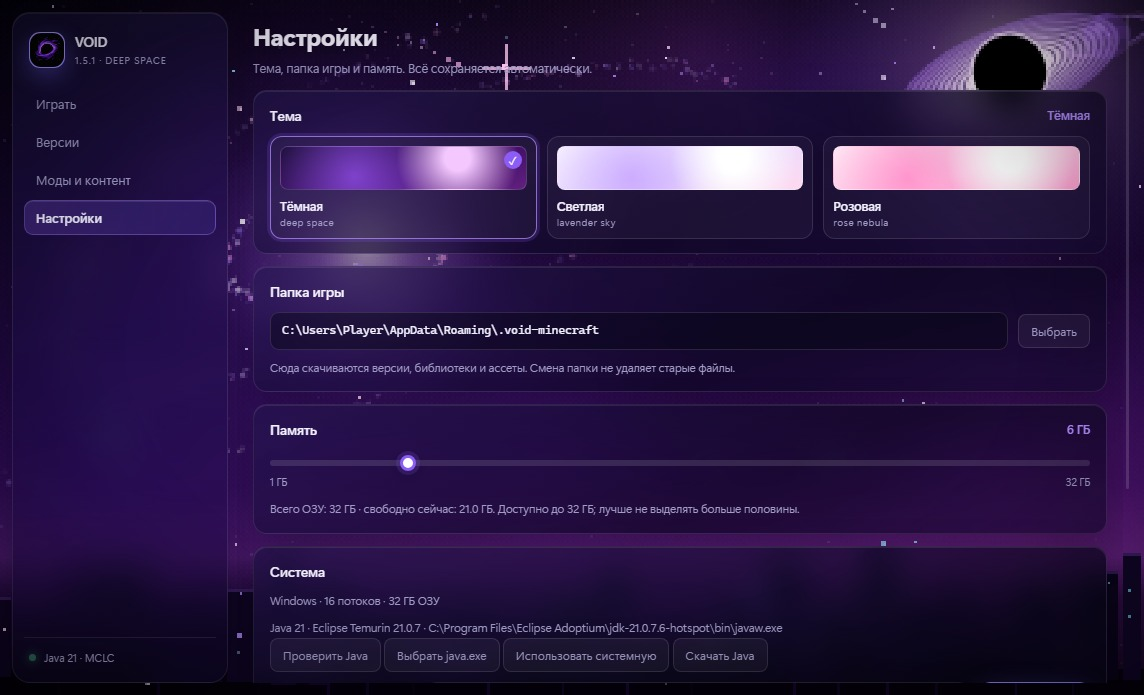
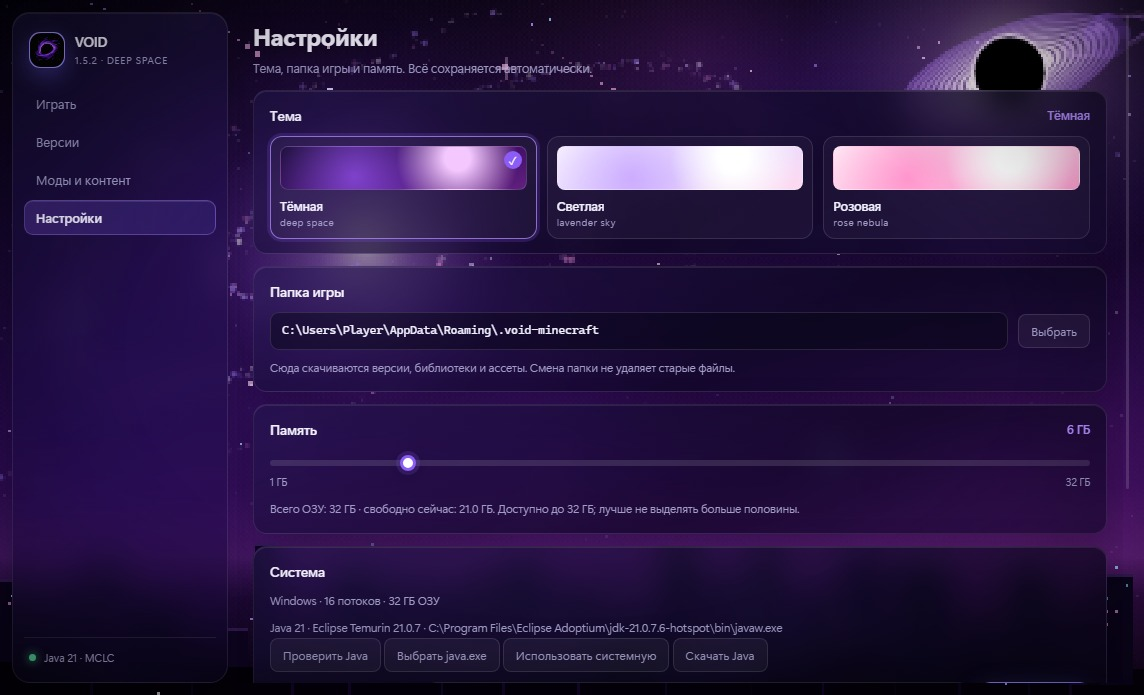
fix: одно окно при запуске и single instance lock

diff --git a/site/index.html b/site/index.html
@@ -82,7 +82,7 @@
       </section>
 
       <section class="download section" id="download">
-        <div class="download-panel"><div class="download-glow"></div><div class="eyebrow">ТВОЯ СЛЕДУЮЩАЯ ИГРА НАЧИНАЕТСЯ ЗДЕСЬ</div><h2>Готов нырнуть<br /><em>в VOID?</em></h2><p>Выбирай установщик или portable-версию. Для запуска Minecraft понадобится Java; её можно установить через настройки лаунчера.</p><div class="download-actions"><a class="button primary" id="setupLink" href="./downloads/VOID-Setup-1.5.1.exe" download>Установщик <span>↓</span></a><a class="button secondary" id="portableLink" href="./downloads/VOID-Portable-1.5.1.exe" download>Portable EXE <span>↓</span></a></div><div class="download-meta"><span>VERSION <b class="js-version">1.5.1</b></span><span>WINDOWS 10/11 · X64</span><span>БЕЗ ЦИФРОВОЙ ПОДПИСИ</span><a id="allReleases" href="https://github.com/Dosh1rac/my-mc-launcher/releases" target="_blank" rel="noopener">ВСЕ ВЕРСИИ ↗</a></div><p class="download-note">Файлы скачиваются с GitHub Releases. Windows может показать предупреждение SmartScreen: приложение пока не подписано сертификатом.</p></div>
+        <div class="download-panel"><div class="download-glow"></div><div class="eyebrow">ТВОЯ СЛЕДУЮЩАЯ ИГРА НАЧИНАЕТСЯ ЗДЕСЬ</div><h2>Готов нырнуть<br /><em>в VOID?</em></h2><p>Выбирай установщик или portable-версию. Для запуска Minecraft понадобится Java; её можно установить через настройки лаунчера.</p><div class="download-actions"><a class="button primary" id="setupLink" href="./downloads/VOID-Setup-1.5.2.exe" download>Установщик <span>↓</span></a><a class="button secondary" id="portableLink" href="./downloads/VOID-Portable-1.5.2.exe" download>Portable EXE <span>↓</span></a></div><div class="download-meta"><span>VERSION <b class="js-version">1.5.2</b></span><span>WINDOWS 10/11 · X64</span><span>БЕЗ ЦИФРОВОЙ ПОДПИСИ</span><a id="allReleases" href="https://github.com/Dosh1rac/my-mc-launcher/releases" target="_blank" rel="noopener">ВСЕ ВЕРСИИ ↗</a></div><p class="download-note">Файлы скачиваются с GitHub Releases. Windows может показать предупреждение SmartScreen: приложение пока не подписано сертификатом.</p></div>
       </section>
 
       <section class="faq section" id="faq"><div class="eyebrow">ПЕРЕД СТАРТОМ</div><h2>Частые вопросы</h2><details><summary>VOID бесплатный?</summary><p>Да. Для игры на серверах с проверкой аккаунта потребуется лицензия Minecraft и поддерживаемый вход Microsoft.</p></details><details><summary>Нужна ли Java?</summary><p>Для запуска Minecraft нужна совместимая Java. Её можно выбрать вручную или установить в настройках VOID.</p></details><details><summary>Можно ли импортировать сборки?</summary><p>В лаунчере предусмотрен импорт .mrpack и .zip. Совместимость конкретных сборок и загрузчиков может зависеть от их содержимого.</p></details><details><summary>Нужен ли аккаунт Microsoft?</summary><p>Для одиночной игры нет — включи офлайн-режим и выбери ник. Для серверов с лицензионной проверкой и скинов нажми «Войти» в карточке аккаунта: лаунчер покажет код, его нужно ввести на сайте Microsoft. Сессия сохраняется, повторно входить не придётся.</p></details><details><summary>Это официальный лаунчер Mojang?</summary><p>Нет. VOID — независимый проект и не связан с Mojang или Microsoft.</p></details></section>

diff --git a/electron/main.ts b/electron/main.ts
@@ -27,6 +27,23 @@ let win: BrowserWindow | null = null;
 let downloadController: AbortController | null = null;
 let installingJava = false;
 
+// Второй запуск EXE не должен открывать второе окно: фокусируем уже открытое.
+const hasSingleInstanceLock = app.requestSingleInstanceLock();
+
+if (!hasSingleInstanceLock) {
+  app.quit();
+} else {
+  app.on("second-instance", () => {
+    if (!win || win.isDestroyed()) {
+      createWindow();
+      return;
+    }
+    if (win.isMinimized()) win.restore();
+    win.show();
+    win.focus();
+  });
+}
+
 function createWindow() {
   const theme = getSettings().theme;
   const backgroundColor =
@@ -462,18 +479,6 @@ ipcMain.handle("launcher:open-external", async (_event, url: string) => {
   }
 });
 
-app.whenReady().then(() => {
-  createWindow();
-
-  app.on("activate", () => {
-    if (BrowserWindow.getAllWindows().length === 0) createWindow();
-  });
-});
-
-app.on("window-all-closed", () => {
-  if (process.platform !== "darwin") app.quit();
-});
-
 /* ---------- Автообновление ---------- */
 
 // Portable-сборка не может заменить собственный EXE — обновление через сайт.
@@ -535,7 +540,13 @@ ipcMain.handle("update:check", async () => {
   return updateState;
 });
 
+app.on("window-all-closed", () => {
+  if (process.platform !== "darwin") app.quit();
+});
+
 app.whenReady().then(() => {
+  if (!hasSingleInstanceLock) return;
+
   createWindow();
 
   app.on("activate", () => {

diff --git a/electron/renderer/index.html b/electron/renderer/index.html
@@ -24,7 +24,7 @@
           <div class="logo"><img src="./void.png" alt="VOID" /></div>
           <div>
             <div class="brand-name">VOID</div>
-            <div class="brand-sub" id="brandSub">1.5.1 · deep space</div>
+            <div class="brand-sub" id="brandSub">1.5.2 · deep space</div>
             <button class="update-badge hidden" id="updateBadge" type="button"></button>
           </div>
         </div>

diff --git a/site/config.js b/site/config.js
@@ -6,4 +6,4 @@ export const REPO = "Dosh1rac/my-mc-launcher";
 
 // Версия, которая показывается до того, как сайт получит данные
 // о последнем релизе с GitHub API.
-export const FALLBACK_VERSION = "1.5.1";
+export const FALLBACK_VERSION = "1.5.2";

diff --git a/electron/renderer/renderer.ts b/electron/renderer/renderer.ts
@@ -221,7 +221,7 @@ const THEME_SUBS: Record<Theme, string> = {
   pink: "rose nebula",
 };
 
-let appVersion = "1.5.1";
+let appVersion = "1.5.2";
 
 const brandSub = $<HTMLElement>("brandSub");
 

diff --git a/README.md b/README.md
@@ -1,6 +1,6 @@
 # VOID — лаунчер Minecraft
 
-**Сайт:** https://dosh1rac.github.io/my-mc-launcher/ · **Скачать:** [Releases](https://github.com/Dosh1rac/my-mc-launcher/releases) · **Версия:** 1.5.1
+**Сайт:** https://dosh1rac.github.io/my-mc-launcher/ · **Скачать:** [Releases](https://github.com/Dosh1rac/my-mc-launcher/releases) · **Версия:** 1.5.2
 
 Лаунчер Minecraft с графическим интерфейсом на Electron: версии и загрузчики, каталог Modrinth, профили, импорт сборок и автоустановка Java. Внутри — общее ядро запуска, которое используют и GUI, и консольный режим.
 
